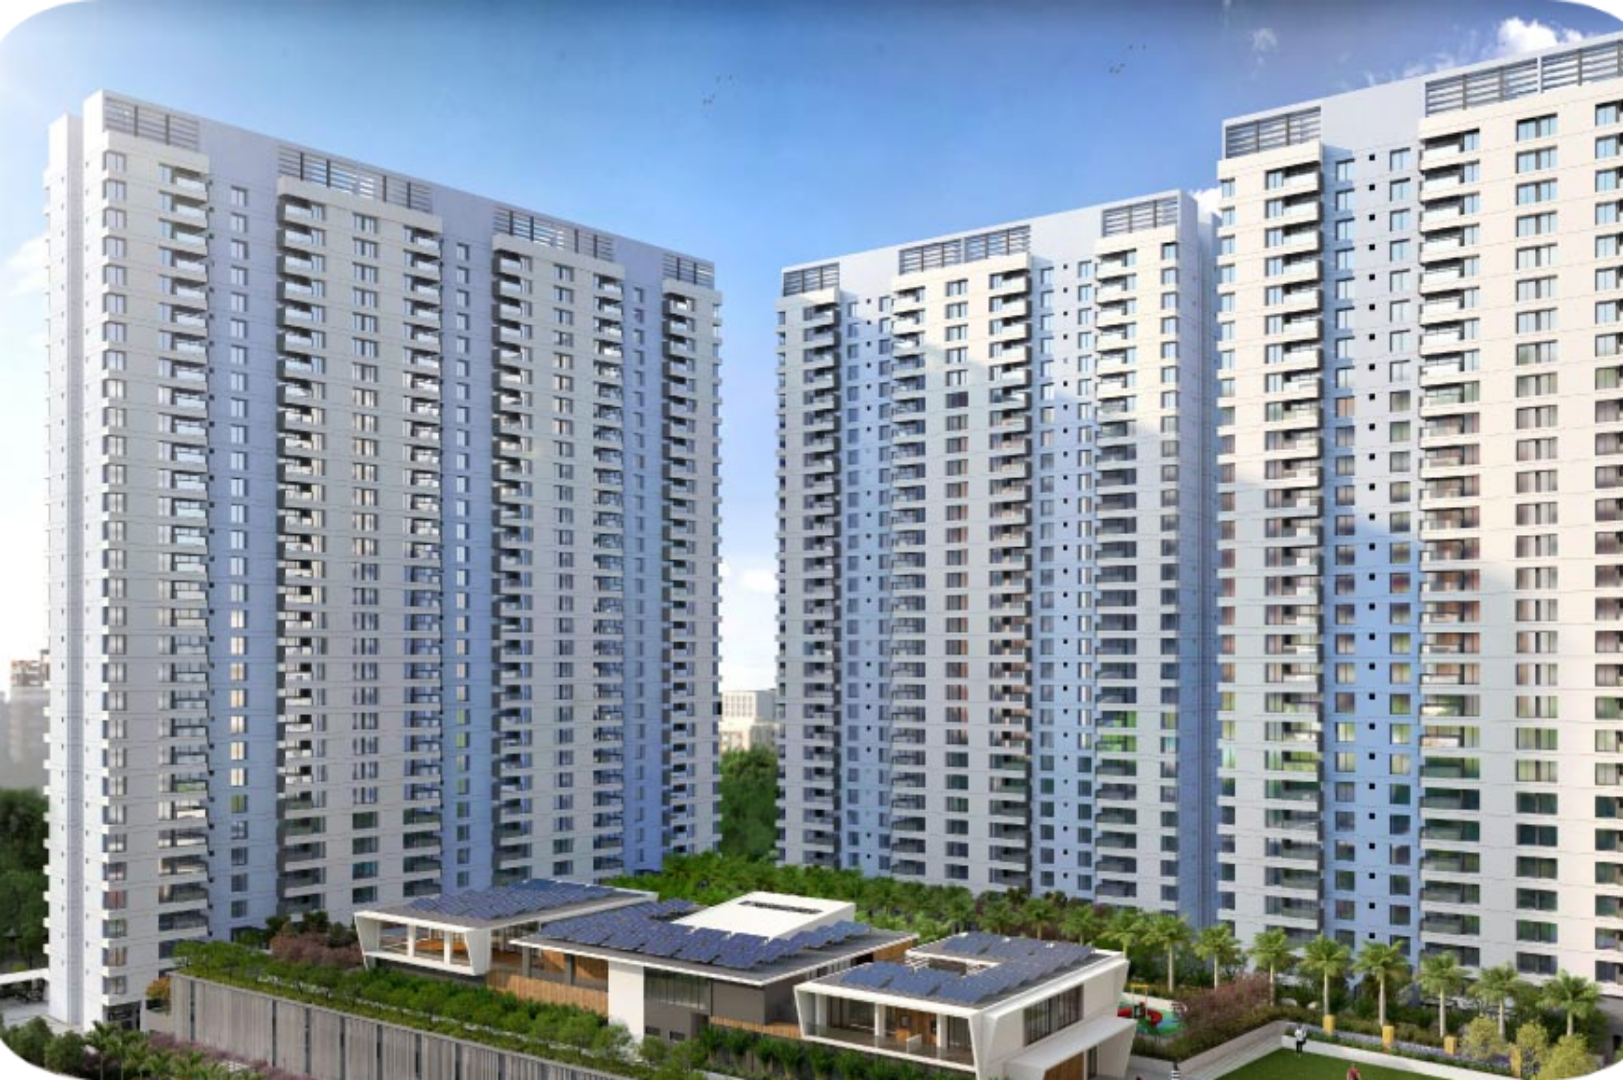
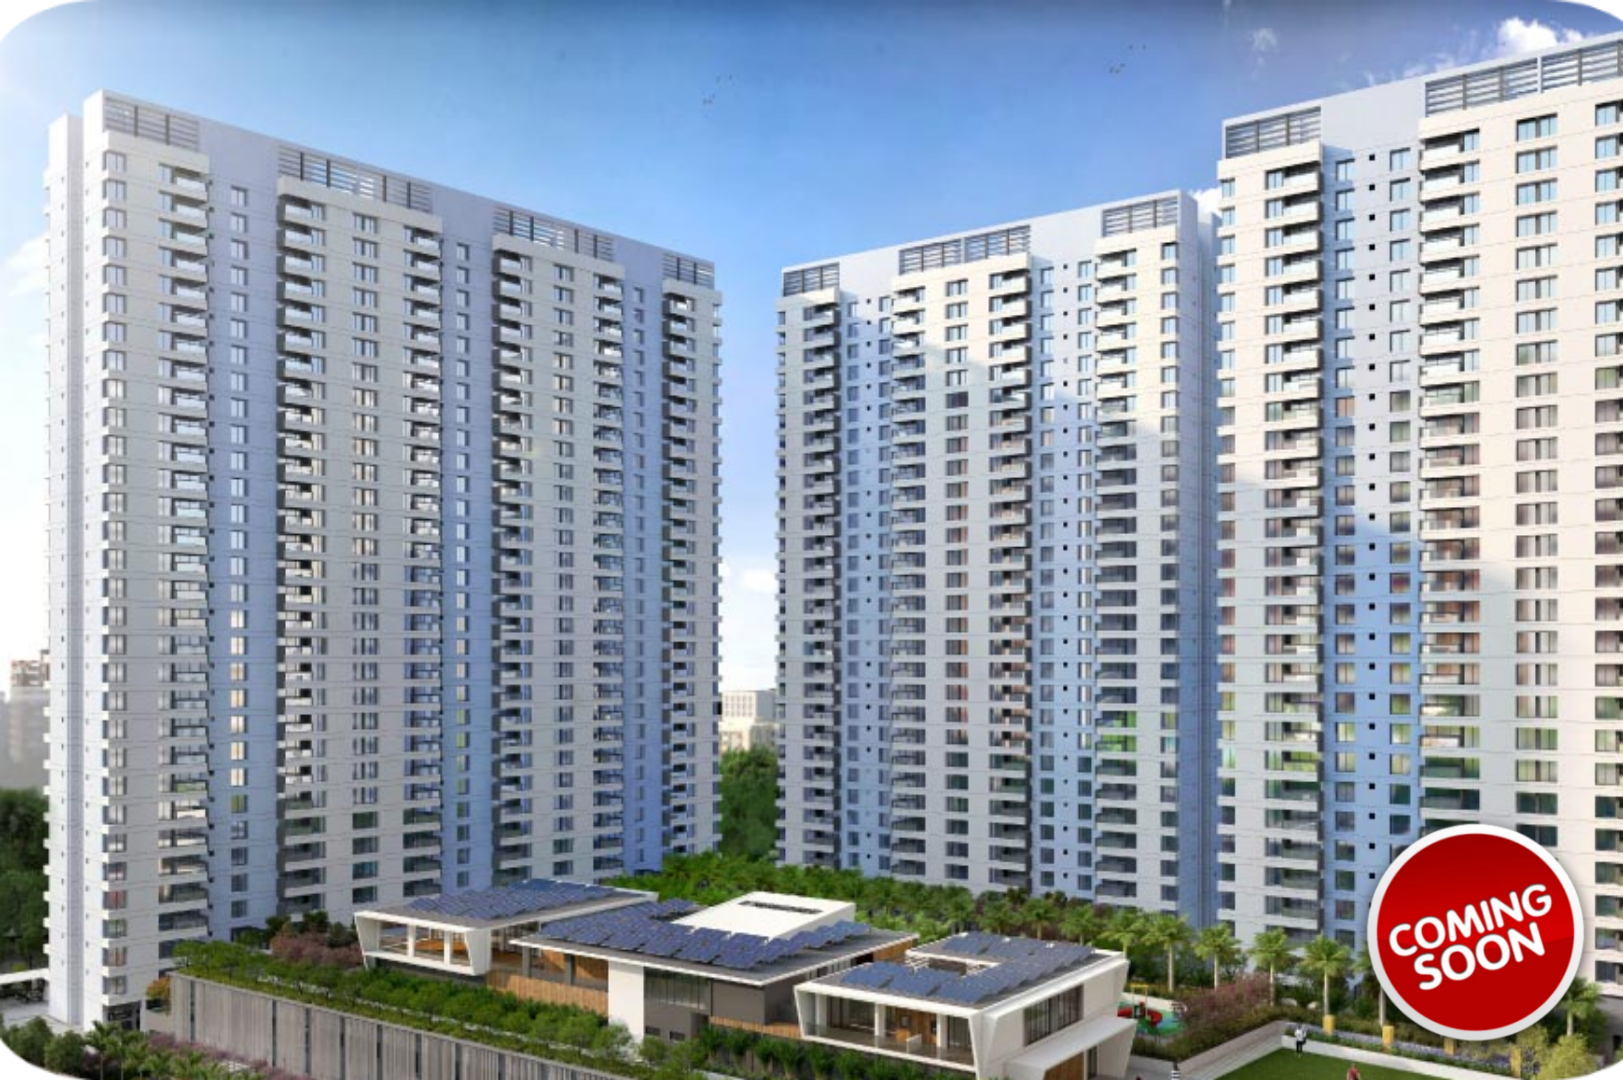
Initial commit

Changed region(s): [[0.8318, 0.7639, 0.9858, 0.9778]]

diff --git a/index.html b/index.html
@@ -84,13 +84,13 @@
 
   gtag('config', 'AW-17895689140');
 </script>
-<link rel="stylesheet" href="css/chatbot.css?v=2">
+<!-- <link rel="stylesheet" href="css/chatbot.css?v=2"> -->
 
 
 </head>
 
 <body>
-        <div class="chat-pop-sm">
+        <!-- <div class="chat-pop-sm">
     <button id="chat-pop-sm-close" type="button" class="close" data-dismiss="chat-pop-sm" aria-label="Close">
         <span aria-hidden="true">×</span>
     </button>
@@ -98,16 +98,16 @@
         Hi, I am <strong>Pooja</strong> from support. I can help you with pricing, floor plans and site visits.
     </div>
     <button class="chat-pop-sm-btn openchat" type="button" id="chat-square-small">Let's Chat</button>
-</div>
+</div> -->
 
     <div class="overlay"></div>
     <!---------------- Menu Section Codes Start From Here --------------->
     <header class="container-fluid AppHeader px-0">
         <div class="headerflexdiv d-flex align-items-center justify-content-between">                        
             <!-- <div class="dummydiv"></div> -->
-            <a href="#" class="logo d-inline-block">
+            <a href="#" class="logo d-inline-block" aria-label="Kumar Properties">
                 <img loading="eager" decoding="async" fetchpriority="high" src="images/logo.png" class="logo_img" alt="logo">
-                <div class="menuIcoin d-lg-none d-block"><img loading="eager" decoding="async" src="images/icons/menu.svg" alt="menu"></div>
+                <div class="menuIcoin d-lg-none d-block" role="button" tabindex="0" aria-label="Open navigation menu"><img loading="eager" decoding="async" src="images/icons/menu.svg" alt="menu"></div>
             </a>
 
             <nav class="AppNavbar d-flex">                
@@ -120,8 +120,8 @@
                                 
                 <a href="#our-project" class="navlinks text-uppercase" data-toggle="modal" data-target="#customModal">Contact Us</a>
                 <!-- <a href="JavaScript:void(0)" class="navlinks text-uppercase" data-toggle="modal" data-target="#customModal">Enquire Now</a> -->
-                <a href="tel:[phone redacted]" class="d-flex align-items-center gradient headrConNo"><img loading="eager" decoding="async"
-                        src="images/icons/call.svg" class="callsvg" alt="" style="filter: invert(1);"> [phone redacted]</a>
+                <a href="tel:[phone redacted]" class="d-flex align-items-center gradient headrConNo"><img loading="eager" decoding="async"
+                        src="images/icons/call.svg" class="callsvg" alt="" style="filter: invert(1);"> [phone redacted]</a>
             </nav>           
         </div>
     </header>
@@ -144,7 +144,7 @@
                 <li>65+ Live Projects Across India</li>
                 <li>60K Happy Families Stay in a Godrej Home</li>
             </ul> -->
-            <button class="appbtn gradient" data-toggle="modal" data-target="#customModal">Download Brochure <img loading="lazy" decoding="async"
+            <button type="button" class="appbtn gradient mobile-brochure-btn" data-toggle="modal" data-target="#customModal">Download Brochure <img loading="lazy" decoding="async"
                     src="images/icons/arrow.svg" style="filter: invert(1);" alt=""></button>
         </div>
 
@@ -187,7 +187,7 @@
         <div class="banner-mobile-content">
             <h1 class="banner-mobile-title">KUMAR Properties Pune</h1>
             <p class="banner-mobile-subtitle">Kumar Parc Residences - New Tower | Kumar Prism Towers - New Launch</p>
-            <button class="appbtn gradient" data-toggle="modal" data-target="#customModal">Download Brochure <img loading="lazy" decoding="async"
+            <button type="button" class="appbtn gradient mobile-brochure-btn" data-toggle="modal" data-target="#customModal">Download Brochure <img loading="lazy" decoding="async"
                     src="images/icons/arrow.svg" style="filter: invert(1);" alt=""></button>
         </div>
     </section>
@@ -282,8 +282,8 @@
                 <p class="proj-typology"><strong>Configuration & Pricing</strong></p>
 
                 <ul>
-                    <li>3 BHK - 1335-1358 sq. ft. carpet - <strong>₹1.97 Cr* Onwards</strong></li>
-                    <li>4 BHK - 1722 sq. ft. carpet - <strong>₹2.54 Cr* Onwards</strong></li>
+                    <li>3 BHK with 2 car parks- 1335-1358 sq. ft. carpet - <strong>₹1.97 Cr* Onwards</strong></li>
+                    <li>4 BHK with 3 car parks- 1722 sq. ft. carpet - <strong>₹2.54 Cr* Onwards</strong></li>
                 </ul>
             </div>
 
@@ -295,7 +295,6 @@
         </div>
     </div>
 </div>
-
 
 <div class="col-md-6 col-sm-6 custom-col">
     <div class="inner-col">
@@ -363,56 +362,6 @@
             </div>
 
         </div>
-        <!-- <div class="highligts-flex-div py-lg-5 py-3 services-two" style="background: #FFFCF1;" id="highlights">
-            <div class="container">
-                <div class="head" style="text-align: center;">
-                    <h4 class="heading" style="font-size: 26px;">Highlights</h4>
-                </div>
-                <div class="flex-div row p-0">
-                    <div class="img-div col-md-6">
-                        <img loading="lazy" decoding="async" src="images/highlights-img.png" class="img-fluid" alt="" style="height: 100%;object-fit: cover;">
-                    </div>
-
-                    <ul class="listing col-md-6" style="text-align: left;">
-                        <li class="d-flex"> <span>→</span>
-                            <p>5 Star Hospitality Services</p>
-                        </li>
-                        <li class="d-flex"> <span>→</span>
-                            <p>70% Open Spaces</p>
-                        </li>
-                        <li class="d-flex"> <span>→</span>
-                            <p>Resort Like Amenities</p>
-                        </li>
-                        <li class="d-flex"> <span>→</span>
-                            <p>40,000 Sq. Ft. Of Themed Landscapes With Lush Greenery</p>
-                        </li>
-                        <li class="d-flex"> <span>→</span>
-                            <p>Breathtaking Skyline Views From One Of Pune’s Tallest Towers </p>
-                        </li>
-                        <li class="d-flex"> <span>→</span>
-                            <p><b>12 Projects Delivered</b> : In Pune & PCMC</p>
-                        </li>
-                        <li class="d-flex"> <span>→</span>
-                            <p><b>18 Projects</b> : Under Development</p>
-                        </li>
-                        <li class="d-flex"> <span>→</span>
-                            <p> <b>100 Lakh Sq.ft.</b> : Under Construction</p>
-                        </li>
-                        <li class="d-flex"> <span>→</span>
-                            <p> <b>17 Years </b> : Real Estate Experience</p>
-                        </li>
-                        <li class="d-flex"> <span>→</span>
-                            <p><b>Realty Titans</b> : 2023 #Awards</p>
-                        </li>
-                        <li class="d-flex"> <span>→</span>
-                            <p><b>Prime Locations</b> : Strong connectivity with long-term appreciation potential</p>
-                        </li>
-                        <li style="border: 0;"><button class="appbtn gradient" data-toggle="modal" data-target="#customModal"> Download Brochure</button></li>
-                    </ul>
-                </div>
-            </div>
-        </div>
-    </section> -->
 
     <section class="section-amenities py-lg-5 py-3" style="background: #FFFCF1;" id="amenities">
         <div class="container">
@@ -504,23 +453,23 @@
         </div>
         <div class="flex-div row p-0">
             <div class="img-div col-6 col-lg-3">
-                <a href="images/gallery/g1.png" class="without-caption image-source-link">
-                    <img loading="lazy" decoding="async" class="d-block w-100 h-100" src="images/gallery/g1.png" alt="Image 1">
+                <a href="images/g1.jpg" class="without-caption image-source-link">
+                    <img loading="lazy" decoding="async" class="d-block w-100 h-100" src="images/g1.jpg" alt="Image 1">
                 </a>
             </div>
             <div class="img-div col-6 col-lg-3">
-                <a href="images/gallery/g2.png" class="without-caption image-source-link">
-                    <img loading="lazy" decoding="async" class="d-block w-100 h-100" src="images/gallery/g2.png" alt="Image 1">
+                <a href="images/g2.jpg" class="without-caption image-source-link">
+                    <img loading="lazy" decoding="async" class="d-block w-100 h-100" src="images/g2.jpg" alt="Image 1">
                 </a>
             </div>
             <div class="img-div col-6 col-lg-3">
-                <a href="images/gallery/g3.png" class="without-caption image-source-link">
-                    <img loading="lazy" decoding="async" class="d-block w-100 h-100" src="images/gallery/g3.png" alt="Image 1">
+                <a href="images/g3.jpeg" class="without-caption image-source-link">
+                    <img loading="lazy" decoding="async" class="d-block w-100 h-100" src="images/g3.jpeg" alt="Image 1">
                 </a>
             </div>
             <div class="img-div col-6 col-lg-3">
-                <a href="images/gallery/g4.png" class="without-caption image-source-link">
-                    <img loading="lazy" decoding="async" class="d-block w-100 h-100" src="images/gallery/g4.png" alt="Image 1">
+                <a href="images/g4.jpg" class="without-caption image-source-link">
+                    <img loading="lazy" decoding="async" class="d-block w-100 h-100" src="images/g4.jpg" alt="Image 1">
                 </a>
             </div>
         </div>
@@ -587,14 +536,14 @@ We may share data with Real Estate Regulatory Authority (RERA) registered broker
     <!-- .sitefooter end -->
 
 
-    <a class="fixedIcons whatsapp" href="https://api.whatsapp.com/send?phone=[phone redacted]&amp;text=Hello, Looking for KUMAR PROPERTIES PUNE. Get in touch with me my name is">
+    <a class="fixedIcons whatsapp" href="https://api.whatsapp.com/send?phone=[phone redacted]&amp;text=Hello, Looking for KUMAR PROPERTIES PUNE. Get in touch with me my name is">
         <img loading="lazy" decoding="async" src="images/icons/whatsapp.png" alt=""> </a>
-    <a class="fixedIcons phone" href="tel:[phone redacted]"> <img loading="lazy" decoding="async" src="images/icons/phone.png" alt=""> </a>
+    <a class="fixedIcons phone" href="tel:[phone redacted]"> <img loading="lazy" decoding="async" src="images/icons/phone.png" alt=""> </a>
 
 
     <!-- mobile-section-footer -->
     <div class="mobile-section-footer">
-        <a href="" title="Enquire Now" data-toggle="modal" data-target="#customModal"> Enquire Now</a>
+        <a href="javascript:void(0)" class="mobile-footer-cta" title="Enquire Now" data-toggle="modal" data-target="#customModal">Enquire Now</a>
 
     </div>
     <!-- mobile-section-footer -->
@@ -784,7 +733,7 @@ We may share data with Real Estate Regulatory Authority (RERA) registered broker
             </div>
         </div>
     </div>
-    <div class="chat-bot-icon"></div> 
+    <!-- <div class="chat-bot-icon"></div>  -->
     <script>
         (function() {
             if (window.matchMedia("(max-width: 600px)").matches) {
@@ -805,7 +754,7 @@ We may share data with Real Estate Regulatory Authority (RERA) registered broker
     <script src="js/jquery.magnific-popup.min.js"></script>
     <script src="https://cdn.jsdelivr.net/npm/intl-tel-input@18.2.1/build/js/intlTelInput.min.js"></script>
     <!-- <script src="js/canvas_chatbot.js"></script>  -->
-    <script src="js/core_chatbot.js"></script>
+    <!-- <script src="js/core_chatbot.js"></script> -->
     <script type="text/javascript" language="javascript">
         var versionUpdate = (new Date()).getTime();
         var script = document.createElement("script");
@@ -1096,9 +1045,17 @@ We may share data with Real Estate Regulatory Authority (RERA) registered broker
             $(this).addClass("active").siblings().removeClass("active");
         });
 
-        $(".menuIcoin").click(function() {
+        $(".menuIcoin").click(function(e) {
+            e.preventDefault();
+            e.stopPropagation();
             $(".AppNavbar").addClass("active")
             $(".overlay").addClass("active")
+        })
+        $(".menuIcoin").keydown(function(e) {
+            if (e.key === "Enter" || e.key === " ") {
+                e.preventDefault();
+                $(this).trigger("click");
+            }
         })
         $(".AppNavbar .navlinks, .overlay").click(function() {
             $(".AppNavbar").removeClass("active")

diff --git a/css/style.css b/css/style.css
@@ -1092,7 +1092,7 @@ a .pro-price {
     right: 0;
     bottom: 0;
     width: 100%;
-    background: #000000;
+    /* background: #000000; */
     color: var(--white);
     padding: 5px 0;
 }
@@ -1570,7 +1570,7 @@ a .pro-price {
     }
     .banner-mobile-system {
         display: block;
-        margin-top: 70px;
+        margin-top: 78px;
     }
     .quick-enquiry-mobile-only {
         display: block;
@@ -1640,8 +1640,11 @@ a .pro-price {
    }
 
     .logo>.logo_img {
-        height: 60px;
-        margin-left: 10px;
+        display: block;
+        width: min(140px, calc(100vw - 108px));
+        height: auto;
+        max-height: 56px;
+        margin-left: 0;
     }
     .logo .menuIcoin img {
         height: auto;
@@ -1665,6 +1668,33 @@ a .pro-price {
         font-size: 14px;
         padding: 10px 15px;
     }
+    .banner-mobile-content {
+        padding: 18px 12px 24px;
+    }
+    .banner-mobile-title {
+        font-size: clamp(21px, 7vw, 31px);
+        letter-spacing: 0.6px;
+    }
+    .banner-mobile-subtitle {
+        font-size: 15px;
+        line-height: 1.4;
+    }
+    .banner-mobile-content .appbtn,
+    .mobile-brochure-btn {
+        width: 60%;
+        min-height: 56px;
+        padding: 15px 10px;
+        font-size: 15px;
+        line-height: 1.3;
+        letter-spacing: 1px;
+        border-radius: 10px;
+        white-space: normal;
+    }
+    .mobile-brochure-btn img {
+        width: 20px;
+        height: auto;
+        flex: 0 0 auto;
+    }
     .AppHeader {
         position: fixed;
         left: 0;
@@ -1685,7 +1715,9 @@ a .pro-price {
         border-bottom: 1px solid #fff;
     }
     .AppHeader .logo {
-        padding: 8px 0px;
+        align-items: center;
+        min-height: 78px;
+        padding: 10px 72px 10px 12px;
         width: 100%;
         display: flex !important;
         /* justify-content: center; */
@@ -1732,9 +1764,20 @@ a .pro-price {
     .menuIcoin {
         display: block !important;
         position: absolute;
-        right: 15px;
-        padding-top: 5px;
-        top: 10px;
+        right: 14px;
+        top: 50%;
+        transform: translateY(-50%);
+        width: 48px;
+        height: 48px;
+        padding-top: 0;
+        display: flex !important;
+        align-items: center;
+        justify-content: center;
+    }
+    .menuIcoin img {
+        display: block;
+        width: 40px;
+        height: auto;
     }
     .logo-absolute {
         position: unset;
@@ -1863,7 +1906,7 @@ a .pro-price {
     .fixedIcons {
         bottom: 45px;
         img {
-            width: 35px;
+            width: 45px;
         }
     }
     #bannerSliderControl {
@@ -2002,7 +2045,7 @@ a .pro-price {
         letter-spacing: 0.9px;
     }
     .sitefooter {
-        padding-bottom: 80px;
+        padding-bottom: calc(96px + env(safe-area-inset-bottom));
     }
     /* .modal */
     .modal.modal1.show .modal1-dialog {
@@ -2049,13 +2092,36 @@ a .pro-price {
     /* .mobile-section-footer */
     .mobile-section-footer {
         display: flex;
-        display: flex;
-        gap: 0 5px;
-        justify-content: space-around;
+        align-items: center;
+        justify-content: center;
+        gap: 0;
+        padding: 10px 12px calc(10px + env(safe-area-inset-bottom));
+        /* background: rgba(0, 0, 0, 0.96); */
         z-index: 9;
+        /* box-shadow: 0 -8px 20px rgba(0, 0, 0, 0.18); */
+    }
+    .mobile-section-footer a,
+    .mobile-footer-cta {
+        width: 100%;
+        max-width: 420px;
+        min-height: 52px;
+        display: flex;
+        align-items: center;
+        justify-content: center;
+        text-align: center;
+        padding: 12px 18px;
+        font-size: 18px;
+        font-weight: 600;
+        letter-spacing: 0.6px;
+        border-radius: 10px;
+        background: linear-gradient(135deg, #8f4102, #f27f0c 55%, #cc6205);
+        color: var(--white);
     }
     .prv-and-next-btns {
         bottom: 40%;
+    }
+    .fixedIcons {
+        bottom: calc(78px + env(safe-area-inset-bottom));
     }
 }
 

diff --git a/js/canvas_chatbot.js b/js/canvas_chatbot.js
@@ -15,7 +15,7 @@ if (!sessionId) {
 
 // const phoneNumberDiv = "91 63664 48599";
 
-const phoneNumberDiv = `<a href="tel:[phone redacted]">[phone redacted]</a>`;
+const phoneNumberDiv = `<a href="tel:[phone redacted]">[phone redacted]</a>`;
 
 const projectLogo = "";
 